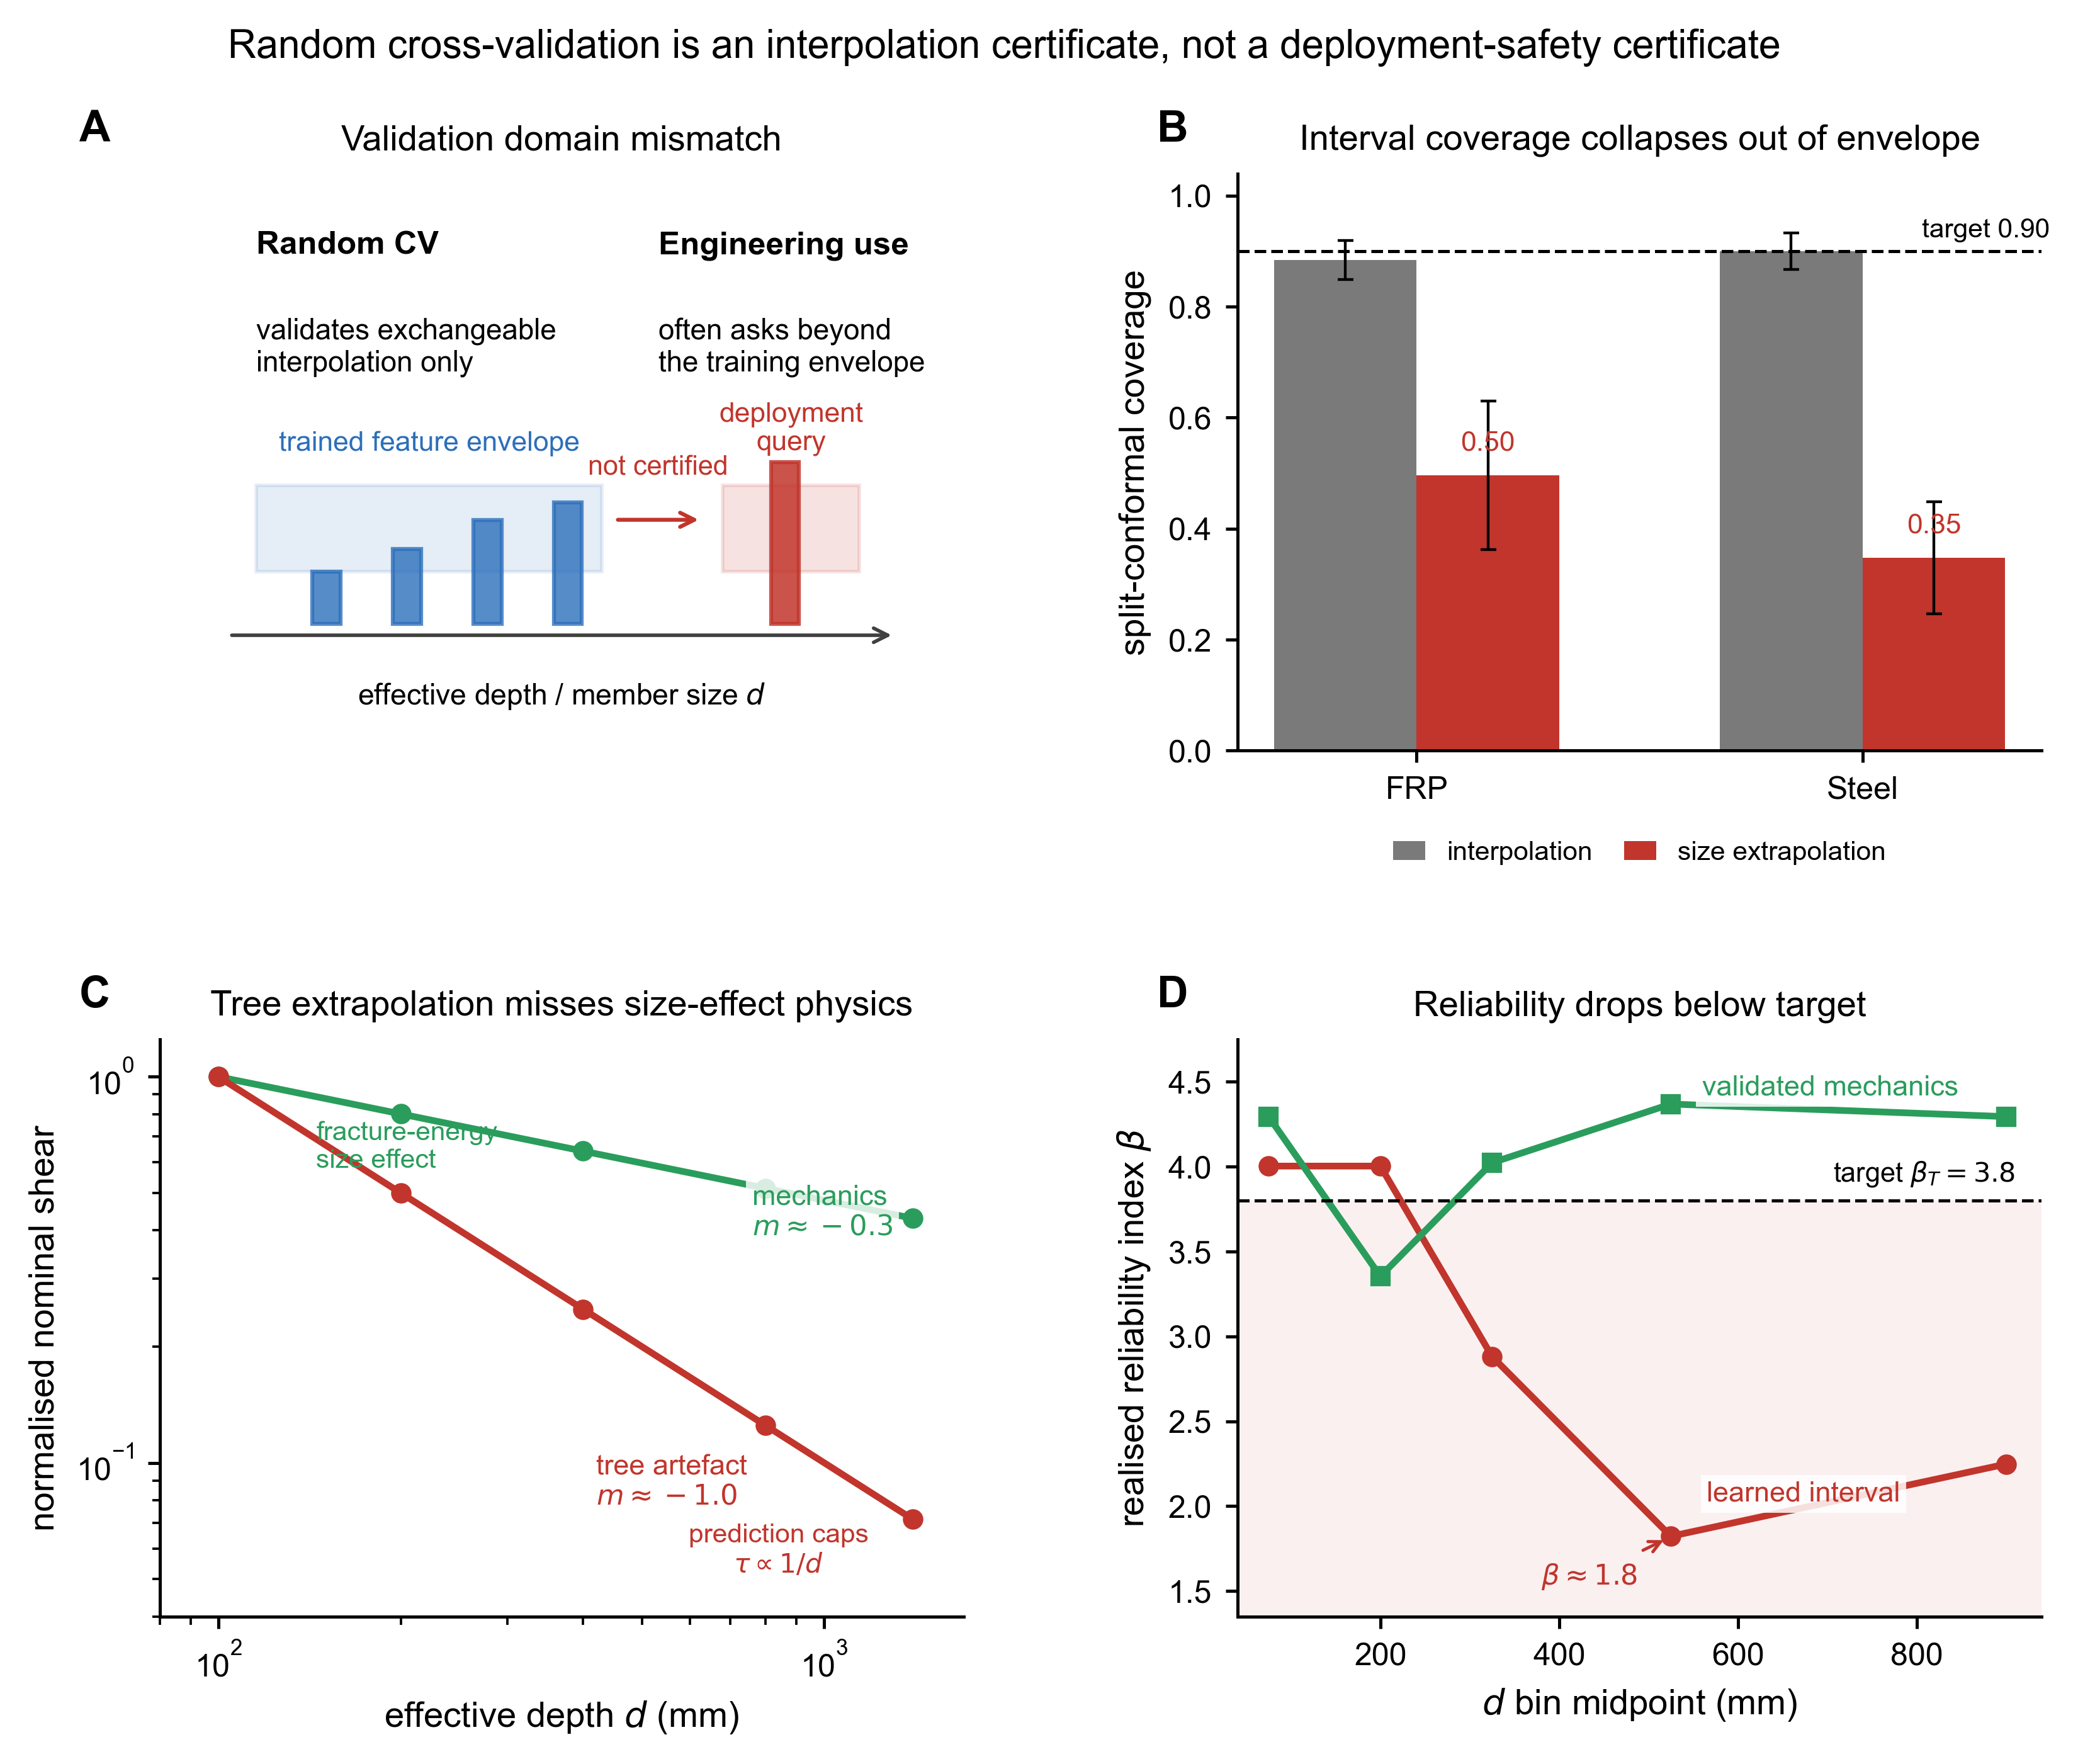
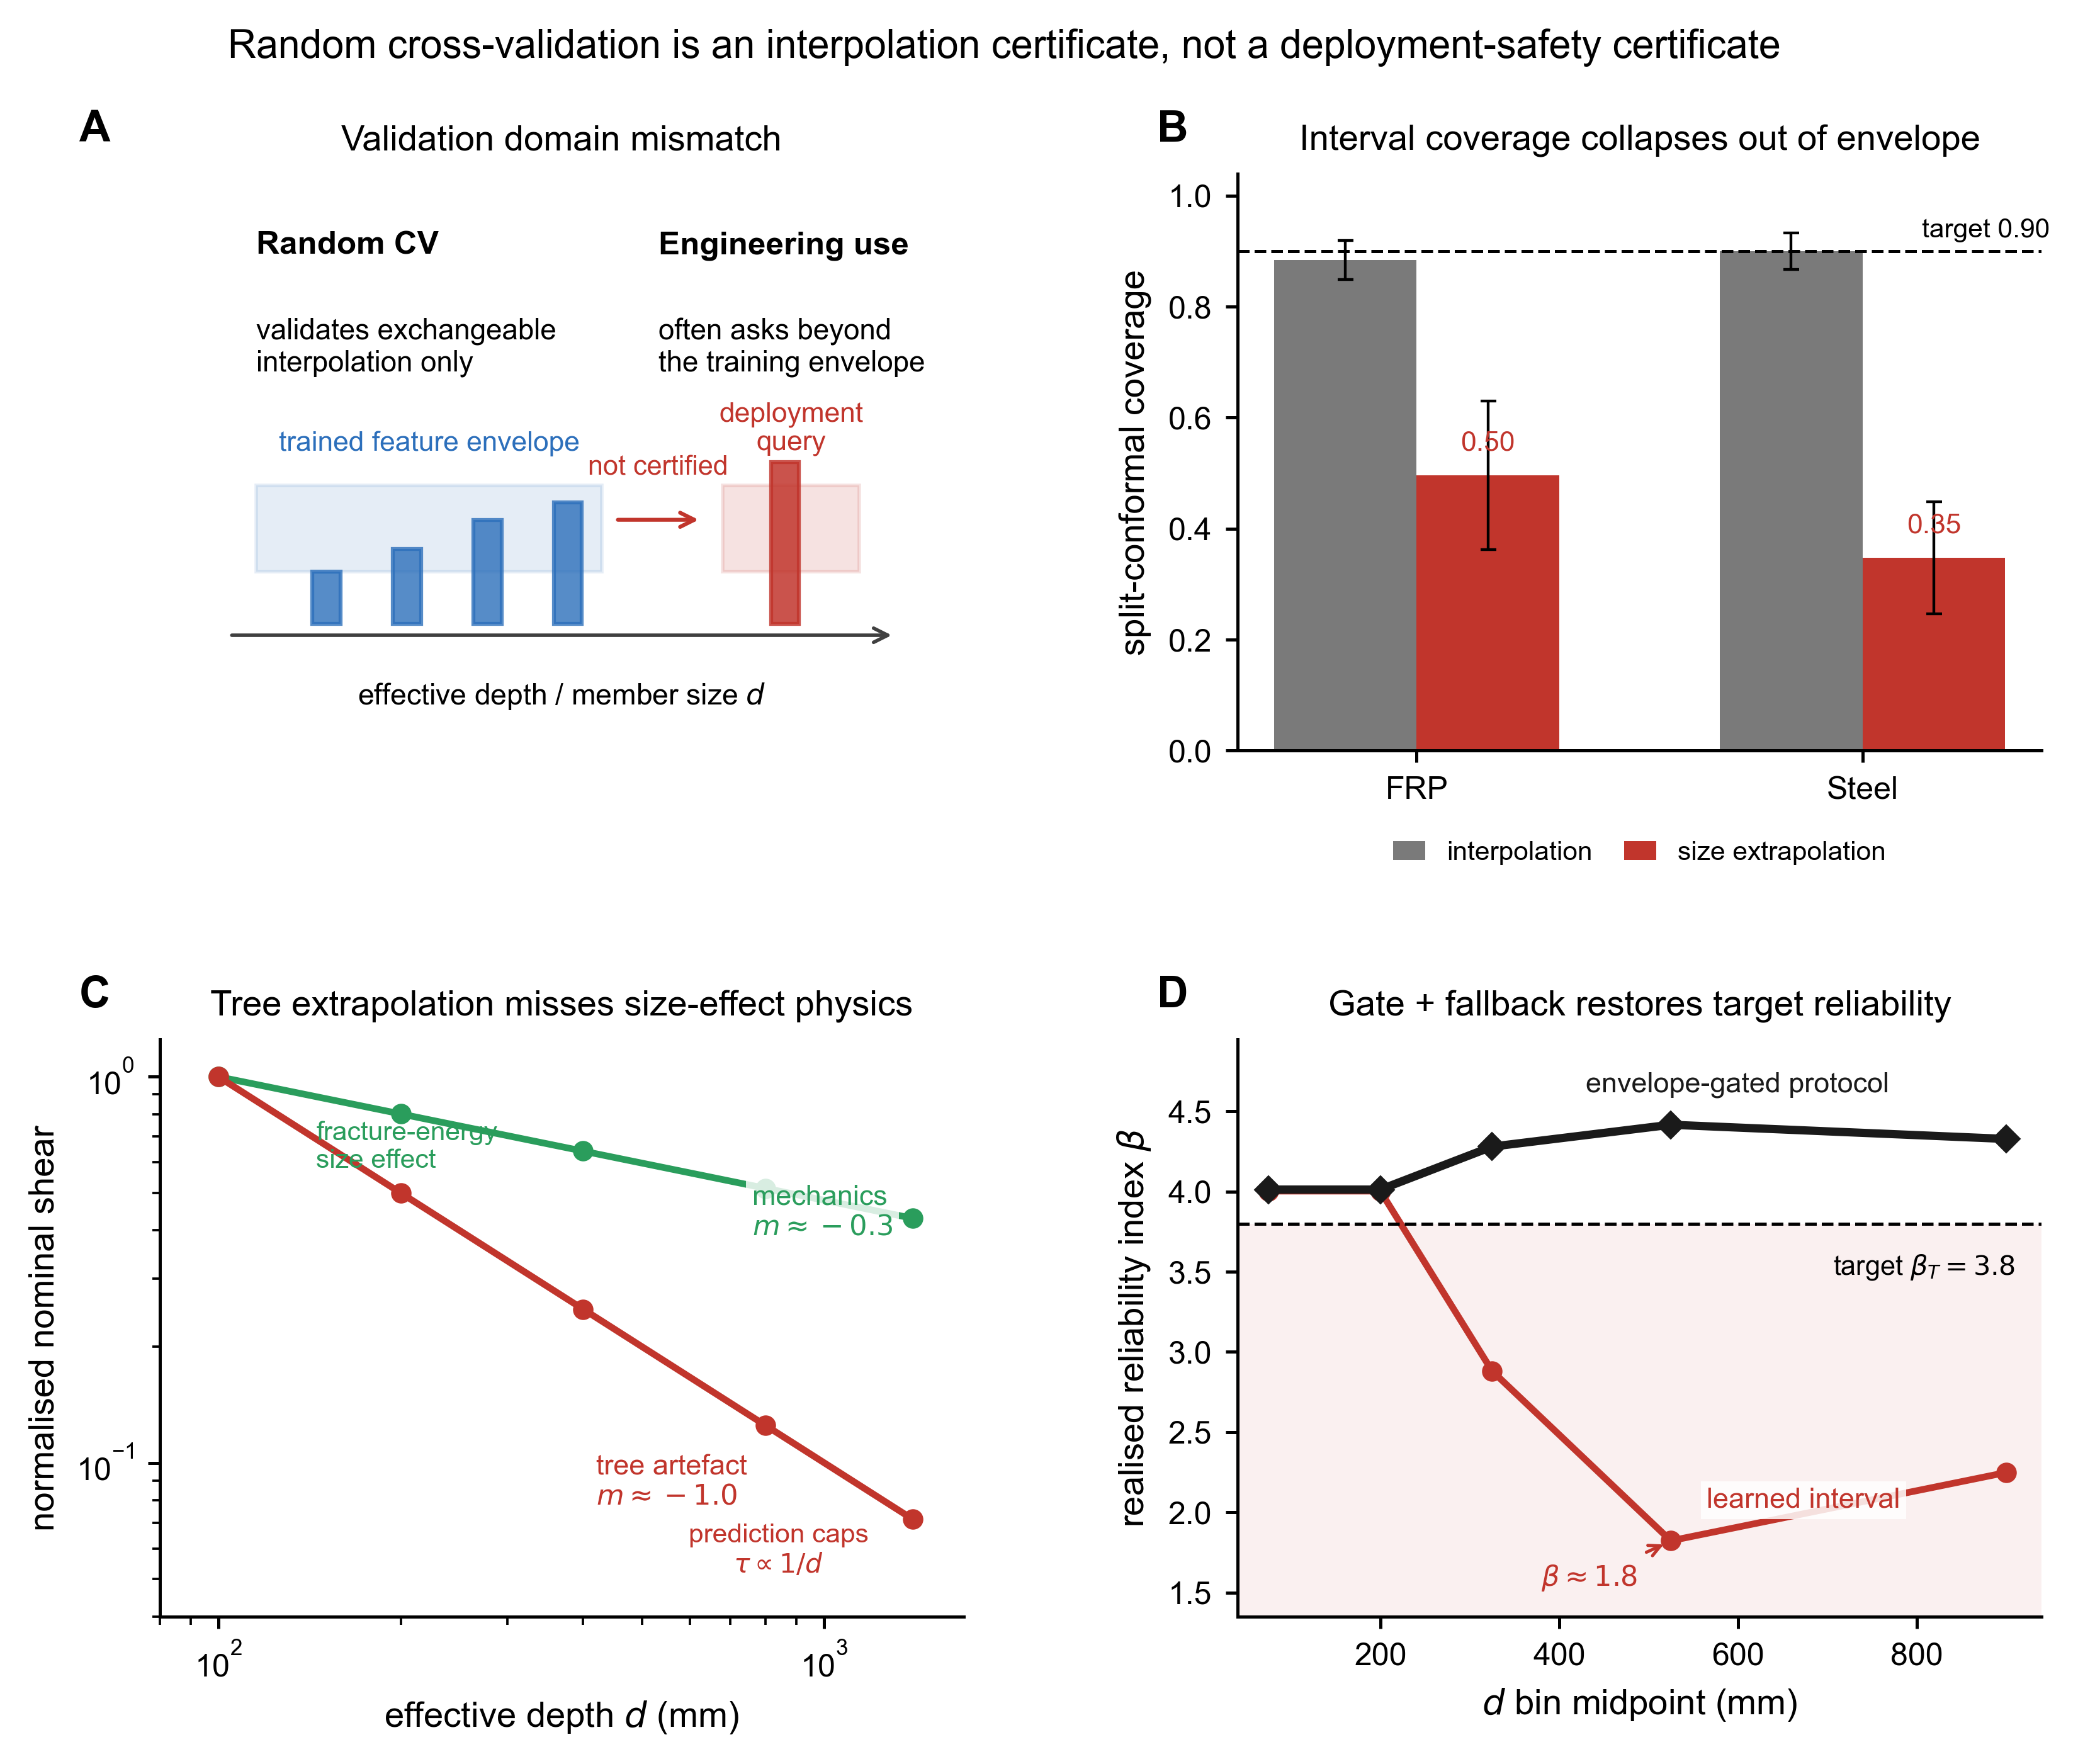
r25: SFRC closure (Narayanan-Darwish), partial deep-beam closure (plate-geometry ACI STM), anchor-robustness check; Fig.1 gains gated-protocol restoration

diff --git a/code/a31_sfrc_closure.py b/code/a31_sfrc_closure.py
@@ -1,0 +1,96 @@
+"""
+a31_sfrc_closure.py — close the fallback loop at the THIRD material (SFRC).
+
+Mechanical arm: Narayanan & Darwish (1987), ACI Structural Journal 84(3),
+doi:10.14359/2654 — the classical SFRC shear equation using the fibre factor
+F = (Lf/df)·Vf·beta_bond, which the Lantsoght database tabulates directly
+(column 'F'), so no fibre-property guessing is needed:
+
+    v_u = e·[0.24·f_spfc + 80·rho·(d/a)] + 0.41·tau·F        [MPa]
+    f_spfc = f_cuf/(20 - sqrt(F)) + 0.7 + sqrt(F)            [MPa]
+    e = 1.0 for a/d > 2.8;  e = 2.8·(d/a) for a/d <= 2.8
+    tau = 4.15 MPa;  f_cuf = cube strength ~= f_c(cyl)/0.8
+
+Gate: global model-uncertainty stats must land in the published family for
+this equation before the closure result is used (bias ~0.9-1.4, COV <~0.40).
+
+Then the identical same-metric closure pipeline of a28 (bias-correction on
+the in-envelope calibration split + ln-space split conformal) is run with
+this mechanical arm against the ML arms on the slender SFRC set.
+
+Outputs -> ../data/processed/sfrc_closure.csv (+ prints validation stats)
+"""
+from __future__ import annotations
+import warnings
+import numpy as np
+import pandas as pd
+from pathlib import Path
+
+warnings.filterwarnings("ignore")
+from a28_steel_closure import run_closure, m_stats
+
+RAW = Path("../data/raw/Zenodo_2578061_SFRC_shear_beams.xlsx")
+PROC = Path("../data/processed")
+POS = {"b": 2, "h": 3, "d": 4, "rho_l": 16, "fy": 17, "a_d": 18, "fc": 21,
+       "beta_f": 23, "Lf": 24, "Vf": 25, "df_fib": 26, "aspect": 27,
+       "F": 29, "V_test_kN": 38}
+FEATS = ["b", "d", "fc", "rho_l", "a_d", "fy", "Vf"]
+
+
+def load():
+    raw = pd.read_excel(RAW, header=None)
+    df = raw.iloc[3:, list(POS.values())].copy()
+    df.columns = list(POS)
+    for c in df.columns:
+        df[c] = pd.to_numeric(df[c], errors="coerce")
+    df = df.dropna(subset=["b", "d", "fc", "rho_l", "a_d", "F", "V_test_kN"])
+    df = df[(df.V_test_kN > 0) & (df.d > 0) & (df.a_d >= 2.5) & (df.F >= 0)]
+    df["fy"] = df["fy"].fillna(df["fy"].median())
+    df["Vf"] = df["Vf"].fillna(df["Vf"].median())
+    return df.reset_index(drop=True)
+
+
+def nd1987_V_kN(r):
+    F = r.F
+    fcu = r.fc / 0.8                       # cylinder -> cube
+    fsp = fcu / (20.0 - np.sqrt(F)) + 0.7 + np.sqrt(F)
+    e = 1.0 if r.a_d > 2.8 else 2.8 / r.a_d
+    vb = 0.41 * 4.15 * F
+    v = e * (0.24 * fsp + 80.0 * r.rho_l / r.a_d) + vb   # rho*(d/a) = rho/(a/d)
+    return v * r.b * r.d / 1e3
+
+
+def main():
+    df = load()
+    print(f"== SFRC closure (slender, n={len(df)}; d {df.d.min():.0f}-{df.d.max():.0f} mm; "
+          f"F {df.F.min():.2f}-{df.F.max():.2f}) ==")
+    Vnd = np.array([nd1987_V_kN(r) for r in df.itertuples()])
+    s = m_stats(df.V_test_kN.values, Vnd)
+    print(f"Narayanan-Darwish GLOBAL validation: bias={s['bias']:.2f} COV={s['cov']:.2f} "
+          f"unsafe={s['unsafe']:.2f}  (publication family: bias ~0.9-1.4, COV <~0.40)")
+    ok = 0.85 <= s["bias"] <= 1.55 and s["cov"] <= 0.42
+    print("VALIDATION:", "PASS" if ok else "FAIL -> do not use closure result")
+    if not ok:
+        return
+
+    d_hi = df.d.quantile(0.75)
+    big = df[df.d >= d_hi]
+    sb = m_stats(big.V_test_kN.values,
+                 np.array([nd1987_V_kN(r) for r in big.itertuples()]))
+    print(f"  out-of-envelope subset (d>={d_hi:.0f}, n={len(big)}): "
+          f"bias={sb['bias']:.2f} COV={sb['cov']:.2f} unsafe={sb['unsafe']:.2f}")
+
+    R = run_closure(df, FEATS, "V_test_kN",
+                    {"Narayanan-Darwish": nd1987_V_kN}, label="SFRC")
+    R.to_csv(PROC / "sfrc_closure.csv", index=False)
+    g = (R.groupby("predictor")
+           .agg(cov_ln_ind=("cov_ln_ind", "mean"), cov_ln_big=("cov_ln_big", "mean"),
+                cov_ln_big_sd=("cov_ln_big", "std"), cov_raw_big=("cov_raw_big", "mean"),
+                ooe_cov=("ooe_cov", "mean"), width=("width_factor_ln", "mean")).round(3))
+    print("\nSame-metric closure on SFRC (target 0.90):")
+    print(g.to_string())
+    print("saved -> sfrc_closure.csv")
+
+
+if __name__ == "__main__":
+    main()

diff --git a/code/a32_deepbeam_stm.py b/code/a32_deepbeam_stm.py
@@ -1,0 +1,96 @@
+"""
+a32_deepbeam_stm.py — close the fallback loop at the SECOND MECHANISM
+(deep beams, strut-and-tie), now possible because the Megahed database
+tabulates the bearing/loading plate widths (w_tp, w_bp) that fix the
+strut-and-tie node geometry.
+
+Mechanical arm: single-panel ACI 318-19 strut-and-tie model (STM), the code
+route for deep beams (a/d < ~2.5). Explicit, standard assumptions:
+  tension-tie node height   h_b = 2*(h - d)          (twice cover to steel centroid)
+  top-node height           h_t = As*fy/(0.85*fc*b)  (flexural stress-block depth,
+                                    capped at 0.4h for numerical sanity)
+  lever arm                 jd  = d - h_t/2
+  strut angle               tan(theta) = jd / a
+  strut widths              w_s,top = w_tp*sin + h_t*cos ;
+                            w_s,bot = w_bp*sin + h_b*cos ;  w_s = min
+  strut capacity            V = 0.85 * beta_s * fc * w_s * b * sin(theta)
+  beta_s = 0.75 if distributed web reinforcement satisfies the ACI 318-19
+  Sec. 23.5 minimum (sum rho_i*sin^2(gamma_i) >= 0.0025 across the strut),
+  else 0.4. No separate bearing check (consistent with the single-check
+  formula structure reported for this database by Megahed 2024).
+
+Validation gate BEFORE any closure use: Megahed (2024, Sci Rep, same 840-beam
+database) reports ACI-STM prediction/test mean 0.699, CoV 0.372 — i.e.
+test/pred bias ~1.4-1.6 and COV ~0.37 in this paper's convention. Our
+implementation must land in that family (bias 1.2-1.9, COV 0.28-0.48).
+
+Then the identical a28 same-metric closure pipeline runs with this arm.
+Outputs -> ../data/processed/deepbeam_closure.csv
+"""
+from __future__ import annotations
+import warnings
+import numpy as np
+import pandas as pd
+from pathlib import Path
+
+warnings.filterwarnings("ignore")
+from a28_steel_closure import run_closure, m_stats
+
+PROC = Path("../data/processed")
+FEATS = ["h", "d", "b", "a_d", "fck", "rho", "fy", "rho_v", "fyv", "rho_h", "fyh"]
+
+
+def aci_stm_V_kN(r):
+    As = r.rho * r.b * r.d
+    h_t = min(As * r.fy / (0.85 * r.fck * r.b), 0.4 * r.h)
+    h_b = max(2.0 * (r.h - r.d), 1e-6)
+    jd = max(r.d - h_t / 2.0, 0.3 * r.h)
+    a = r.a if r.a > 0 else r.a_d * r.d
+    theta = np.arctan2(jd, a)
+    s, c = np.sin(theta), np.cos(theta)
+    ws = min(r.w_tp * s + h_t * c, r.w_bp * s + h_b * c)
+    # ACI 318-19 23.5: distributed reinforcement crossing the strut
+    gamma_v = np.pi / 2 - theta          # vertical bars vs strut axis
+    web = r.rho_v * np.sin(gamma_v) ** 2 + r.rho_h * np.sin(theta) ** 2
+    beta_s = 0.75 if web >= 0.0025 else 0.4
+    return 0.85 * beta_s * r.fck * ws * r.b * s / 1e3
+
+
+def main():
+    df = pd.read_csv(PROC / "deepbeam_steel_clean.csv")
+    for col in ["w_tp", "w_bp", "a"]:
+        df[col] = pd.to_numeric(df[col], errors="coerce")
+    df = df.dropna(subset=FEATS + ["w_tp", "w_bp", "a", "V"])
+    df = df[(df.w_tp > 0) & (df.w_bp > 0) & (df.V > 0)].reset_index(drop=True)
+    print(f"== deep-beam STM closure (n={len(df)}; d {df.d.min():.0f}-{df.d.max():.0f} mm) ==")
+
+    Vs = np.array([aci_stm_V_kN(r) for r in df.itertuples()])
+    s = m_stats(df.V.values, Vs)
+    print(f"ACI 318-19 STM GLOBAL validation: bias={s['bias']:.2f} COV={s['cov']:.2f} "
+          f"unsafe={s['unsafe']:.2f}")
+    print("  (Megahed 2024 on this database: pred/test mean 0.699, CoV 0.372 "
+          "-> test/pred family ~1.4-1.6 / ~0.37)")
+    ok = 1.15 <= s["bias"] <= 1.95 and 0.26 <= s["cov"] <= 0.50
+    print("VALIDATION:", "PASS" if ok else "FAIL -> do not use closure result")
+    if not ok:
+        return
+
+    d_hi = df.d.quantile(0.75)
+    big = df[df.d >= d_hi]
+    sb = m_stats(big.V.values, np.array([aci_stm_V_kN(r) for r in big.itertuples()]))
+    print(f"  out-of-envelope subset (d>={d_hi:.0f}, n={len(big)}): "
+          f"bias={sb['bias']:.2f} COV={sb['cov']:.2f} unsafe={sb['unsafe']:.2f}")
+
+    R = run_closure(df, FEATS, "V", {"ACI-STM": aci_stm_V_kN}, label="DEEP")
+    R.to_csv(PROC / "deepbeam_closure.csv", index=False)
+    g = (R.groupby("predictor")
+           .agg(cov_ln_ind=("cov_ln_ind", "mean"), cov_ln_big=("cov_ln_big", "mean"),
+                cov_ln_big_sd=("cov_ln_big", "std"), cov_raw_big=("cov_raw_big", "mean"),
+                ooe_cov=("ooe_cov", "mean"), width=("width_factor_ln", "mean")).round(3))
+    print("\nSame-metric closure on deep beams (target 0.90):")
+    print(g.to_string())
+    print("saved -> deepbeam_closure.csv")
+
+
+if __name__ == "__main__":
+    main()

diff --git a/code/a33_anchor_robustness.py b/code/a33_anchor_robustness.py
@@ -1,0 +1,43 @@
+"""
+a33_anchor_robustness.py — is the residual-target recovery anchor-specific?
+Repeats the a29 residual-target arm on the canonical steel benchmark with a
+DIFFERENT mechanical anchor (ACI 318-19 instead of MCFT). If the recovery
+persists, the conclusion "the physics must carry the extrapolation" is a
+property of the construction, not of one favoured model.
+
+Outputs -> ../data/processed/anchor_robustness.csv
+"""
+from __future__ import annotations
+import warnings
+import numpy as np
+import pandas as pd
+from pathlib import Path
+
+warnings.filterwarnings("ignore")
+from a29_physics_arms import run
+from a12_mech_models import aci318_19
+
+PROC = Path("../data/processed")
+
+
+def main():
+    steel = pd.read_csv(PROC / "steel_zhang_clean.csv")
+    steel = steel[steel.a_d >= 2.5].dropna(
+        subset=["bw", "d", "a_d", "rho", "fc", "ag", "fy", "Vu_kN"]).reset_index(drop=True)
+    steel["V31819_kN"] = [aci318_19(r.bw, r.d, r.rho, r.fc) / 1e3
+                          for r in steel.itertuples()]
+    A, _ = run("STEEL-a19", steel, ["bw", "d", "a_d", "rho", "fc", "ag", "fy"],
+               "Vu_kN", "V31819_kN")
+    A = A[A.arm == "residual-target"].copy()
+    A.to_csv(PROC / "anchor_robustness.csv", index=False)
+    g = (A.groupby("model")
+           .agg(cov_ind=("cov_ind", "mean"), cov_big=("cov_big", "mean"),
+                ooe_cov=("ooe_cov", "mean"), width=("width_factor", "mean")).round(3))
+    print("== residual-target arm, anchor = ACI 318-19 (steel) ==")
+    print(g.to_string())
+    print("(compare MCFT anchor: cov_big 0.830/0.860, ooe_cov 0.156/0.144)")
+    print("saved -> anchor_robustness.csv")
+
+
+if __name__ == "__main__":
+    main()

diff --git a/code/generate_SI_tex.py b/code/generate_SI_tex.py
@@ -237,10 +237,11 @@ if (PROC / "fe_mesh_objectivity.json").exists():
     L.append(table(mesh_df, "Mesh-objectivity check for the crack-band FE model under $2\\times$ refinement.", "tab:s10", fmt=3))
 
 # ---- S12: same-pipeline same-metric closure (learned vs mechanical intervals)
-clo = pd.concat(
-    [pd.read_csv(PROC / "steel_closure_raw.csv"), pd.read_csv(PROC / "frp_closure.csv")],
-    ignore_index=True,
-)
+clo_parts = [pd.read_csv(PROC / "steel_closure_raw.csv"), pd.read_csv(PROC / "frp_closure.csv")]
+for extra in ["sfrc_closure.csv", "deepbeam_closure.csv"]:
+    if (PROC / extra).exists():
+        clo_parts.append(pd.read_csv(PROC / extra))
+clo = pd.concat(clo_parts, ignore_index=True)
 clo_g = (
     clo.groupby(["ds", "predictor"])
     .agg(
@@ -304,6 +305,8 @@ L.append(
 
 # ---- S14: physics-anchored arms
 pa = pd.read_csv(PROC / "physics_arms.csv")
+if (PROC / "anchor_robustness.csv").exists():
+    pa = pd.concat([pa, pd.read_csv(PROC / "anchor_robustness.csv")], ignore_index=True)
 pa_g = (
     pa.groupby(["ds", "arm", "model"])
     .agg(
@@ -327,7 +330,7 @@ pa_g = (
 L.append(
     table(
         pa_g,
-        "Physics-anchored learners under the identical size-extrapolation protocol. residual-target: the learner fits the ln model error of the mechanical anchor, so the anchor carries the extrapolation; physics-feature: the anchor prediction is appended as an input feature but the target remains $\\ln V_{\\mathrm{test}}$. Anchors: MCFT (steel), ACI 440.1R-15 (FRP).",
+        "Physics-anchored learners under the identical size-extrapolation protocol. residual-target: the learner fits the ln model error of the mechanical anchor, so the anchor carries the extrapolation; physics-feature: the anchor prediction is appended as an input feature but the target remains $\\ln V_{\\mathrm{test}}$. Anchors: MCFT (steel), ACI 440.1R-15 (FRP); the STEEL-a19 rows repeat the residual-target arm with an ACI 318-19 anchor (anchor-robustness check).",
         "tab:s14",
         colfmt="lllrrrr",
         fmt=3,
@@ -383,6 +386,9 @@ protocol = pd.DataFrame(
         ["Column mechanical aggregate", "a26_column_mech_validate.py", "axial-load bins", "deterministic", "column_mech_by_axial_bin.csv"],
         ["Same-metric closure + protocol reliability", "a28_steel_closure.py", "0.70, 0.75, 0.80", "0, 1, 2; protocol split seed 0, MC fixed", "steel_closure_raw.csv; frp_closure.csv; protocol_beta.csv"],
         ["Physics-anchored arms; weighted conformal", "a29_physics_arms.py", "0.70, 0.75, 0.80", "0, 1, 2", "physics_arms.csv; weighted_conformal.csv"],
+        ["SFRC closure (Narayanan-Darwish)", "a31_sfrc_closure.py", "0.70, 0.75, 0.80", "0, 1, 2", "sfrc_closure.csv"],
+        ["Deep-beam closure (ACI 318-19 STM)", "a32_deepbeam_stm.py", "0.70, 0.75, 0.80", "0, 1, 2", "deepbeam_closure.csv"],
+        ["Anchor robustness (residual-target, ACI 318-19)", "a33_anchor_robustness.py", "0.70, 0.75, 0.80", "0, 1, 2", "anchor_robustness.csv"],
     ],
     columns=["analysis", "script", "threshold grid", "seed grid", "saved artifact"],
 )

diff --git a/code/fig_build.py b/code/fig_build.py
@@ -147,26 +147,27 @@ def fig1():
     ax.text(840,0.052,"prediction caps\n$\\tau\\propto1/d$",color=C_OUT,fontsize=6.8,ha="center")
     ax.set_xlim(80,1700); ax.set_ylim(0.04,1.25)
 
-    # D: reliability consequence and rule
+    # D: reliability consequence and the gated-protocol restoration
     ax=fig.add_subplot(gs[1,1]); panel_label(ax,"D")
     clean_axes(ax)
-    ax.set_title("Reliability drops below target",fontsize=9,pad=6)
+    ax.set_title("Gate + fallback restores target reliability",fontsize=9,pad=6)
     rel=pd.read_csv(PROC/"steel_reliability.csv")
+    proto=pd.read_csv(PROC/"protocol_beta.csv")
     ax.axhspan(1.35,3.8,fc=C_OUT,alpha=0.07,zorder=0)
     ax.plot(rel.d_mid,rel.beta_ml,"o-",c=C_OUT,lw=1.7,ms=4.2)
-    ax.plot(rel.d_mid,rel.beta_me,"s-",c=C_MECH,lw=1.7,ms=4.2)
+    ax.plot(proto.d_mid,proto.beta_protocol,"D-",c="#1a1a1a",lw=2.1,ms=4.4,zorder=5)
     ax.axhline(3.8,ls="--",c="k",lw=0.8)
-    ax.text(910,3.87,"target $\\beta_T=3.8$",fontsize=6.9,ha="right",va="bottom")
+    ax.text(910,3.62,"target $\\beta_T=3.8$",fontsize=6.9,ha="right",va="top")
     ax.text(565,2.03,"learned interval",color=C_OUT,fontsize=7.2,
             bbox=dict(fc="white",ec="none",alpha=0.85,pad=1.5))
-    ax.text(560,4.42,"validated mechanics",color=C_MECH,fontsize=7.2,
+    ax.text(430,4.62,"envelope-gated protocol",color="#1a1a1a",fontsize=7.2,
             bbox=dict(fc="white",ec="none",alpha=0.85,pad=1.5))
     ax.annotate("$\\beta\\approx1.8$",xy=(525,1.82),xytext=(380,1.54),
                 color=C_OUT,fontsize=7.2,
                 arrowprops=dict(arrowstyle="->",lw=0.8,color=C_OUT))
     ax.set_xlabel("$d$ bin midpoint (mm)")
     ax.set_ylabel("realised reliability index $\\beta$")
-    ax.set_ylim(1.35,4.75); ax.set_xlim(40,940)
+    ax.set_ylim(1.35,4.95); ax.set_xlim(40,940)
 
     fig.suptitle("Random cross-validation is an interpolation certificate, not a deployment-safety certificate",
                  fontsize=10.0,y=0.992)